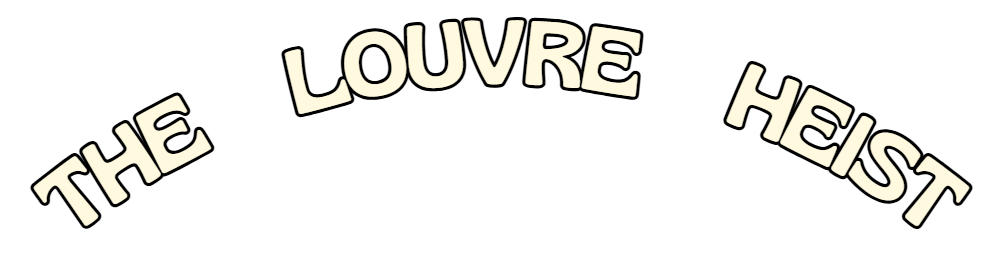
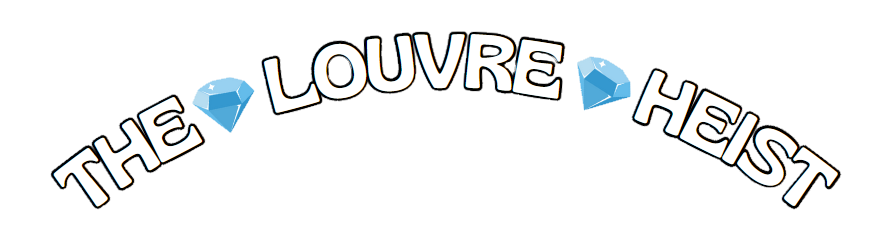
redimension uc demarrage

Changed region(s): [[0.031, 0.0556, 0.9908, 0.8611]]

diff --git a/LouvreHeist/UCDemarrage.xaml b/LouvreHeist/UCDemarrage.xaml
@@ -6,21 +6,13 @@
              xmlns:local="clr-namespace:LouvreHeist"
              mc:Ignorable="d" 
              d:DesignHeight="450" d:DesignWidth="800">
-    <Canvas>
-        <Image x:Name="titreJeu" Height="186" Canvas.Left="72" Source="/images/TheLouvreHeist.png" Stretch="Fill" Canvas.Top="19" Width="650" HorizontalAlignment="Center" VerticalAlignment="Top"/>
-        <Button x:Name="butStart" Canvas.Left="225" Canvas.Top="290" Click="butStart_Click">
+    <Grid>
+        <Image x:Name="titreJeu" Margin="30,39,10,182" Source="/images/TheLouvreHeist.png" Stretch="Fill"/>
+        <Button x:Name="butStart"  Click="butStart_Click" Margin="0,200,0,0" Width="340" Height="86">
             <Image Height="86" Source="/images/start menu.png" Stretch="Fill" Width="340"/>
         </Button>
-        <Image x:Name="diamantDroite" Height="43" Canvas.Left="498" Source="/images/diamant.png" Stretch="Fill" Canvas.Top="55" Width="48" RenderTransformOrigin="0.5,0.5" HorizontalAlignment="Left" VerticalAlignment="Center">
-            <Image.RenderTransform>
-                <RotateTransform Angle="13.164"/>
-            </Image.RenderTransform>
-        </Image>
-        <Image x:Name="diamantGauche" Height="44" Canvas.Left="202" Source="/images/diamant.png" Stretch="Fill" Canvas.Top="70" Width="51" RenderTransformOrigin="0.5,0.5" HorizontalAlignment="Left" VerticalAlignment="Center">
-            <Image.RenderTransform>
-                <RotateTransform Angle="-23.714"/>
-            </Image.RenderTransform>
-        </Image>
-        <Label x:Name="desc" Content="Sauras-tu voler les bijoux de la couronne?" Canvas.Left="234" Canvas.Top="182" Foreground="White" FontFamily="Comic Sans MS" Height="86" Width="326" HorizontalAlignment="Center" VerticalAlignment="Center" FontWeight="Bold" BorderThickness="10,10,10,10" FontSize="14"/>
-    </Canvas> 
+        
+        <Label x:Name="desc" Content="Sauras-tu voler les bijoux de la couronne?"  Foreground="White" FontFamily="Comic Sans MS" Height="86" Width="326" HorizontalAlignment="Center"  FontWeight="Bold" BorderThickness="10,10,10,10" FontSize="14" Margin="0,0,0,0" VerticalAlignment="Center"/>
+        
+    </Grid>
 </UserControl>
